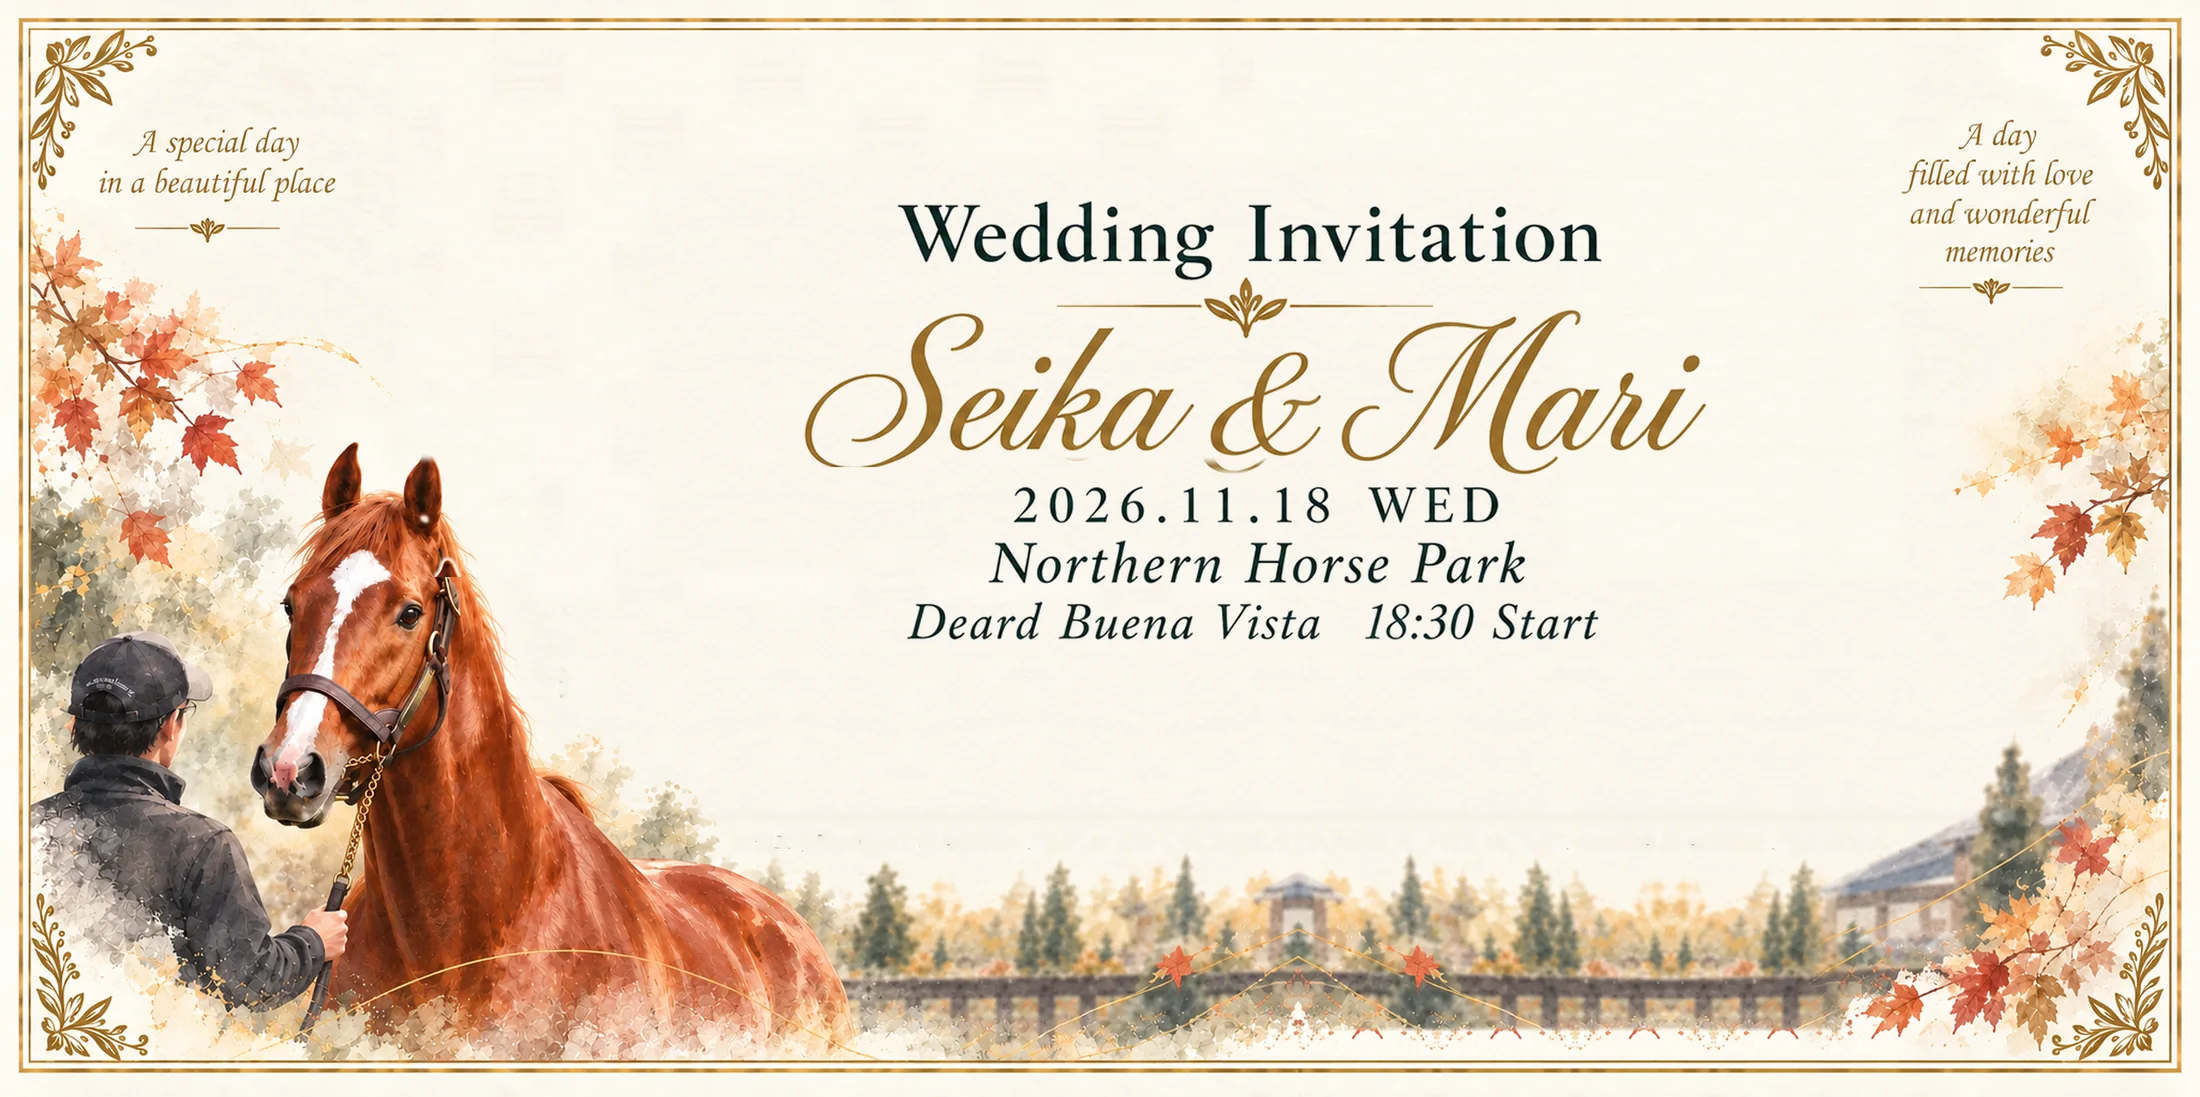
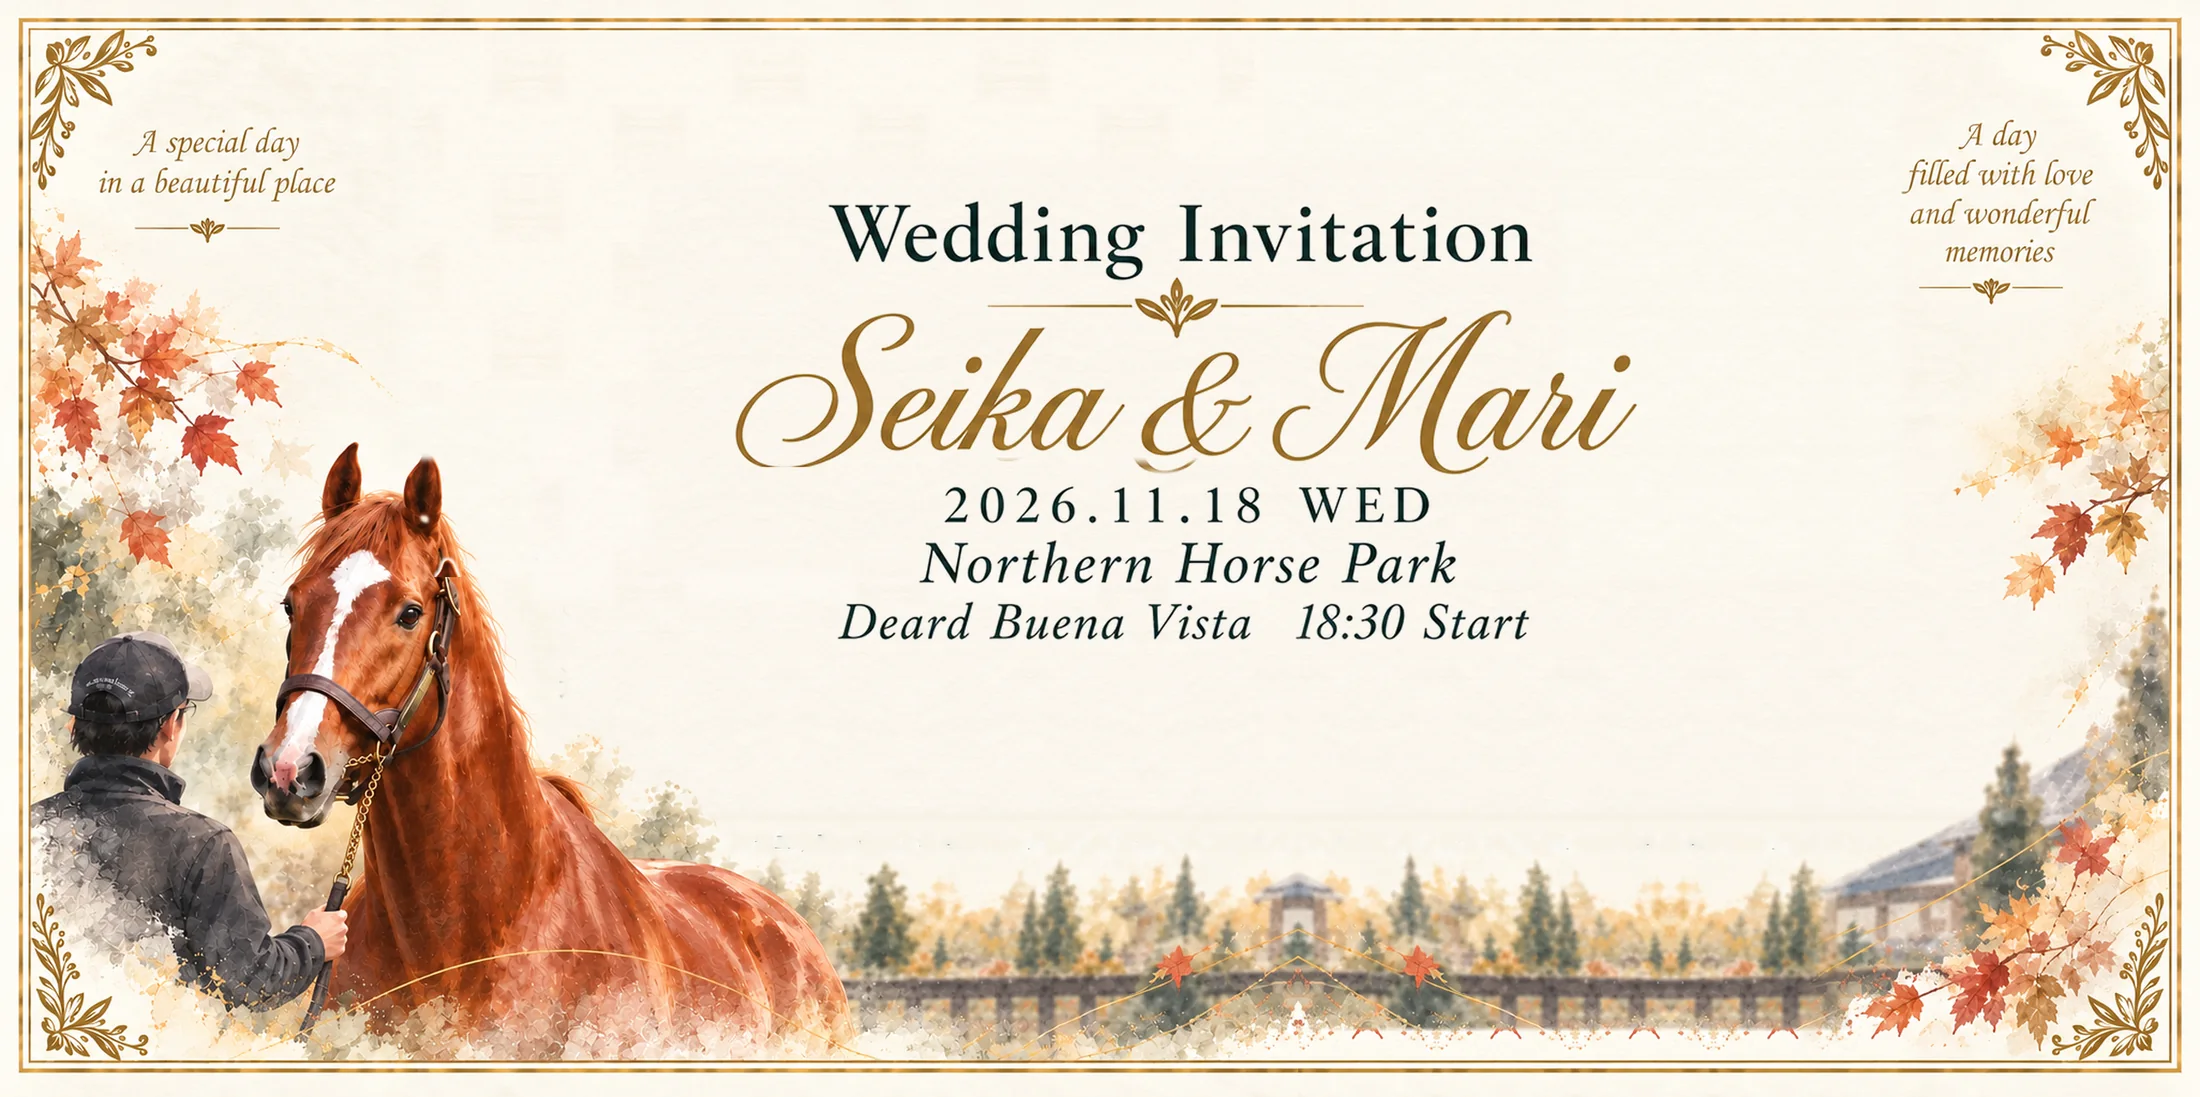
Nudge the hero title left; make the background drift continuous

Changed region(s): [[0.3091, 0.186, 0.7727, 0.5889]]

diff --git a/index.html b/index.html
@@ -9,7 +9,7 @@
 <meta property="og:url" content="https://seika-mari-wedding.github.io/hokkaido/">
 <meta property="og:title" content="Seika &amp; Mari — お祝いの会のご案内">
 <meta property="og:description" content="2026年11月18日（水）午後6時30分 開宴／ノーザンホースパーク Deard Buena Vista">
-<meta property="og:image" content="https://seika-mari-wedding.github.io/hokkaido/ogp.jpg?v=4">
+<meta property="og:image" content="https://seika-mari-wedding.github.io/hokkaido/ogp.jpg?v=5">
 <meta property="og:image:width" content="1200">
 <meta property="og:image:height" content="630">
 <meta property="og:locale" content="ja_JP">
@@ -120,13 +120,14 @@ h1,h2,h3,p,dl,dd,figure{margin:0}
 .card > *:not(.card-bg){position:relative;z-index:1}
 .card > .orn{position:absolute;z-index:2}
 .card-bg{position:absolute;inset:0;z-index:0;pointer-events:none}
-.card-bg figure{margin:0;position:absolute;inset:0;opacity:0;transition:opacity 2.4s ease}
+.card-bg figure{margin:0;position:absolute;inset:0;opacity:0;transition:opacity 3s cubic-bezier(.4,0,.2,1)}
 .card-bg figure.on{opacity:1}
-.card-bg img{width:100%;height:100%;object-fit:cover;opacity:.5;filter:sepia(.12) saturate(.9);transform:scale(1.02)}
-.card-bg figure.on img{animation:kenburns 9s ease-out both}
-.card-bg figure:nth-child(even).on img{animation-name:kenburns2}
-@keyframes kenburns{from{transform:scale(1.02) translate(0,0)}to{transform:scale(1.12) translate(-2%,-1%)}}
-@keyframes kenburns2{from{transform:scale(1.12) translate(2%,1%)}to{transform:scale(1.02) translate(0,0)}}
+.card-bg img{width:100%;height:100%;object-fit:cover;opacity:.5;filter:sepia(.12) saturate(.9);
+ transform:scale(1.04);will-change:transform;animation:drift 28s ease-in-out infinite alternate}
+.card-bg figure:nth-child(2) img{animation-delay:-7s;animation-direction:alternate-reverse}
+.card-bg figure:nth-child(3) img{animation-delay:-14s}
+.card-bg figure:nth-child(4) img{animation-delay:-21s;animation-direction:alternate-reverse}
+@keyframes drift{from{transform:scale(1.04) translate3d(-1.2%,0,0)}to{transform:scale(1.13) translate3d(1.2%,-1%,0)}}
 .card-bg:after{content:"";position:absolute;inset:0;
  background:radial-gradient(ellipse 38% 62% at center,rgba(253,248,238,.9) 0,rgba(253,248,238,.78) 55%,rgba(253,248,238,.2) 100%)}
 .orn{position:absolute;width:62px;height:70px;background:url(ornament.webp) center/contain no-repeat;opacity:.9;pointer-events:none}
@@ -261,11 +262,11 @@ footer{padding:clamp(60px,9vw,96px) 0 clamp(50px,7vw,80px);text-align:center}
 <main id="main">
 <section class="hero">
   <figure class="hero-card">
-   <img class="hero-bg" src="card-bg.webp?v=4" width="2200" height="1097" fetchpriority="high"
+   <img class="hero-bg" src="card-bg.webp?v=5" width="2200" height="1097" fetchpriority="high"
     alt="Wedding Invitation Seika &amp; Mari／2026.11.18 WED／Northern Horse Park／Deard Buena Vista 18:30 Start と記された、紅葉と馬の水彩画の招待状">
-   <img class="ttl ttl-a" src="title-a.webp?v=4" alt="" aria-hidden="true" style="left:38.404%;top:18.101%;width:34.5%">
-   <img class="ttl ttl-b" src="title-b.webp?v=4" alt="" aria-hidden="true" style="left:34.527%;top:24.549%;width:43.116%">
-   <img class="ttl ttl-c" src="title-c.webp?v=4" alt="" aria-hidden="true" style="left:34.263%;top:44.069%;width:38.474%">
+   <img class="ttl ttl-a" src="title-a.webp?v=5" alt="" aria-hidden="true" style="left:35.257%;top:18.101%;width:34.5%">
+   <img class="ttl ttl-b" src="title-b.webp?v=5" alt="" aria-hidden="true" style="left:31.38%;top:24.549%;width:43.116%">
+   <img class="ttl ttl-c" src="title-c.webp?v=5" alt="" aria-hidden="true" style="left:31.116%;top:44.069%;width:38.474%">
   </figure>
   <div class="hero-under">
    <p class="hero-info"><strong>2026年11月18日（水）午後6時30分 開宴</strong>
